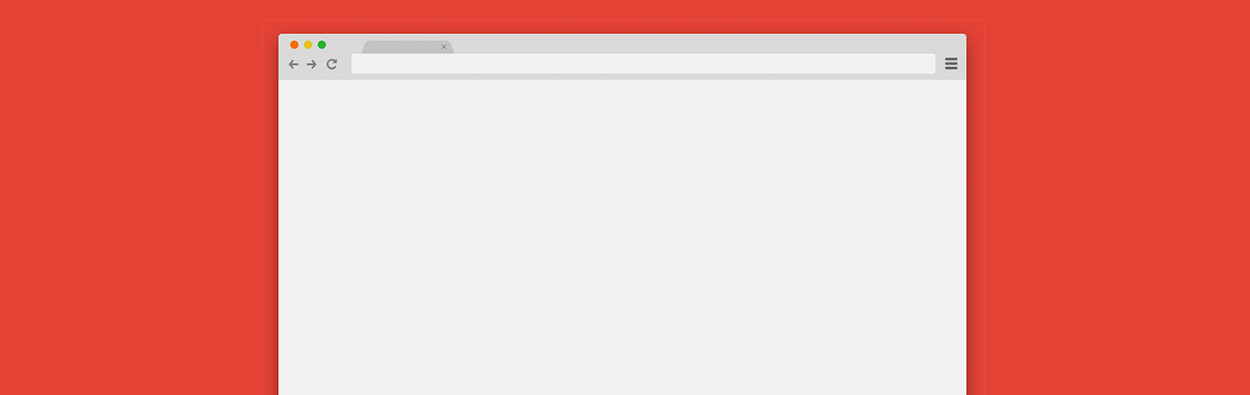
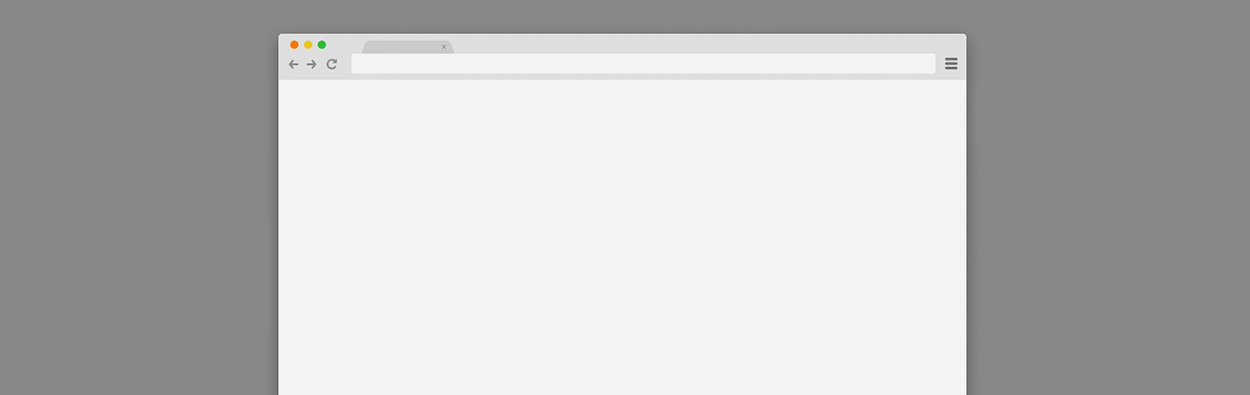
Red color removed from slide background and from statistics

diff --git a/src/client/app/+tsw-index/tsw-index.component.html b/src/client/app/+tsw-index/tsw-index.component.html
@@ -89,7 +89,7 @@
         <div class="col-md-6">
 
           <tsw-statistics title="Statistics">
-            <tsw-statistics-item title="Service Uptime" percentage="99.9" bgColor="#EB6B56" description="99.9% Uptime"></tsw-statistics-item>
+            <tsw-statistics-item title="Service Uptime" percentage="99.9" description="99.9% Uptime"></tsw-statistics-item>
             <tsw-statistics-item title="Tests that Heal Themselves. Smart Tests!" percentage="30" bgColor="#F7DA64" description="30% of your tests will heal themselves. Smart Tests!"></tsw-statistics-item>
             <tsw-statistics-item title="Tests you can fix with 1 click!" percentage="50" bgColor="#54ACD2" description="50% Of your tests you can fix with 1 click and no code!"></tsw-statistics-item>
             <tsw-statistics-item title="Tests That We Can Help You With" percentage="100" description="100% Complete"></tsw-statistics-item>
